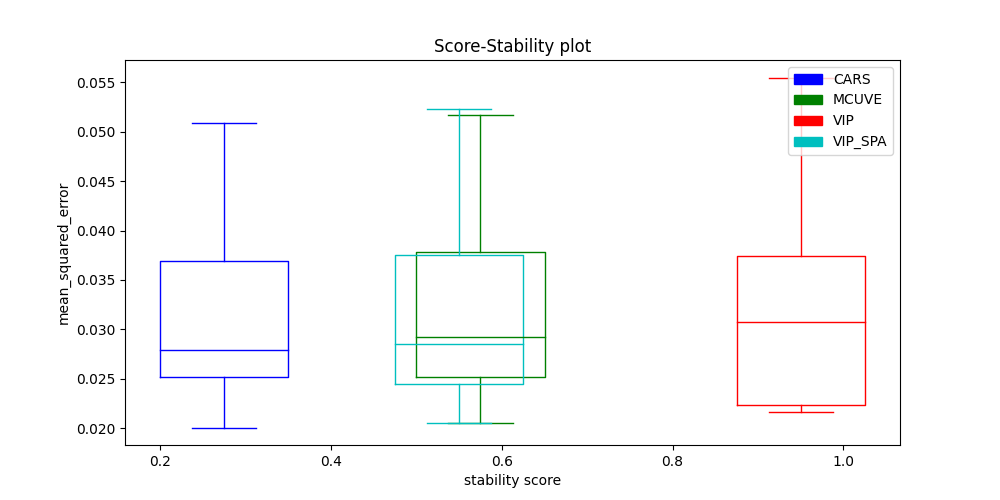
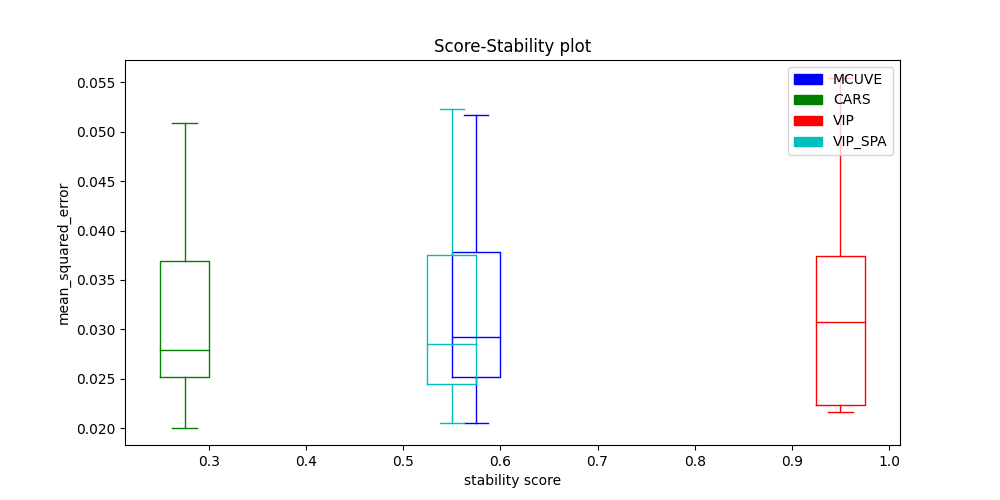
Starts reprogramming of data handling using pandas multiindexing

diff --git a/benchmark/_benchmarking.py b/benchmark/_benchmarking.py
@@ -9,7 +9,7 @@ from sklearn.base import BaseEstimator
 from sklearn import clone
 
 from auswahl import PointSelector, IntervalSelector
-from benchmark.util._data_handling import BenchmarkPOD
+from benchmark.util._data_handling2 import BenchmarkPOD
 from benchmark.util._metrics import mean_std_statistics
 
 
@@ -19,26 +19,33 @@ def benchmark(data_x: np.array,
               train_size: Union[int, float],
               test_model: BaseEstimator,
               reg_metrics: List,
-              stability_metrics: List,
+              stab_metrics: List,
               methods: List[Union[PointSelector, IntervalSelector]],
               random_state: Union[int, RandomState]):
 
-    methods = sorted([(type(method).__name__, method) for method in methods], key=lambda tup: tup[0])
+    methods = [(type(method).__name__, method) for method in (methods if type(methods) == list else [methods])]
     metrics = [(metric.__name__, metric) for metric in (reg_metrics if type(reg_metrics) == list else [reg_metrics])]
+    stabs = [(stab.__name__, stab) for stab in (stab_metrics if type(stab_metrics) == list else [stab_metrics])]
 
     random_state = check_random_state(random_state)
 
     pod = BenchmarkPOD()
-    pod.register_meta(n_samples=data_x.shape[0], n_wavelengths=data_x.shape[1])
+    pod.register_meta(n_samples=data_x.shape[0],
+                      n_wavelengths=data_x.shape[1],
+                      regs=[metric[0] for metric in metrics],
+                      stabs=[stabs[0] for stab in stabs],
+                      methods=dict((methods[i][0], i) for i in range(len(methods))))
 
     # TODO: parallelization with argument n-jobs (produce seeds beforehand to avoid scheduling related reproducilbility issues)
     # parallelization of the outer loop: Due to different methods having different
     # runtimes, a parallelization at this level woud yield with high probability idlying threads
     # => avoids unnecessary synchronization between threads
     for r in range(n_runs):
+        print(f'Started run: {r}')
         seed = random_state.randint(0, 1000000)
         train_x, test_x, train_y, test_y = train_test_split(data_x, data_y, train_size=train_size, random_state=seed)
         for method_name, method in methods:
+            print(f'    Started method {method_name}')
             if hasattr(method, 'random_state'):
                 method.random_state = seed
 
@@ -54,15 +61,15 @@ def benchmark(data_x: np.array,
             prediction = test_regressor.predict(test_x[:, support])
 
             for metric_name, metric in metrics:
-                pod.register(method_name, 'metrics', metric_name, samples=metric(test_y, prediction))
+                pod.register(method_name, metric_name, samples=metric(test_y, prediction))
 
             pod.register(method_name, time=exec_time, support=support)
 
-    # mean and std over all metrics and runs
+    # mean and std over all regression metrics and runs
     mean_std_statistics(pod)
 
     # stability scores
-    for stab_metric in stability_metrics:
-        stab_metric(pod)
+    #for metric_name, metric in stabs:
+        #metric(pod)
 
     return pod

diff --git a/examples/benchmarking.py b/examples/benchmarking.py
@@ -7,11 +7,11 @@
 
 """
 import numpy as np
-from auswahl import MCUVE, CARS, VIP, IPLS, VIP_SPA
+from auswahl import MCUVE, CARS, VIP, IPLS, VIP_SPA, VISSA
 from benchmark import benchmark, stability_score, plot_score_stability_box
 
 from sklearn.cross_decomposition import PLSRegression
-from sklearn.metrics import mean_squared_error
+from sklearn.metrics import mean_squared_error, mean_absolute_error
 
 
 x = np.load("./data/spectra.npy")
@@ -25,15 +25,17 @@ vip_spa = VIP_SPA(n_features_to_select=10, n_jobs=2)
 
 pod = benchmark(x,
                 y,
-                n_runs=5,
+                n_runs=2,
                 train_size=0.9,
                 test_model=PLSRegression(n_components=1),
-                reg_metrics=[mean_squared_error],
-                stability_metrics=[stability_score],
-                methods=[mcuve, cars, vip, vip_spa],
+                reg_metrics=[mean_squared_error, mean_absolute_error],
+                stab_metrics=[stability_score],
+                methods=[mcuve, cars, vip],
                 random_state=1111111)
 
-plot_score_stability_box(pod,
-                         'stability_score',
-                         'mean_squared_error',
-                         save_path="./benchmark_plot.png")
+#pod.to_csv("./samples.csv", ['mean_squared_error', 'samples'])
+pod.to_csv("./all.csv", [['mean_squared_error', 'mean_absolute_error'], ['mean', 'std', 'samples']])
+#plot_score_stability_box(pod,
+                         #'stability_score',
+                         #'mean_squared_error',
+                         #save_path="./benchmark_plot.png")

diff --git a/benchmark/util/_data_handling.py b/benchmark/util/_data_handling.py
@@ -1,3 +1,4 @@
+import pandas as pd
 
 class BenchmarkPOD:
 
@@ -32,5 +33,46 @@ class BenchmarkPOD:
 
     def get_meta_item(self, key: str):
         return self.meta[key]
+
+    def get_reg_metrics(self):
+        return self.meta['regs']
+
+    def get_stability_metrics(self):
+        return self.meta['stabs']
+
+    def _enumerate_values(self, method: str, item_key: str):
+        data = self.data[method][item_key] # reminder: every leave is a list
+        if type(data) == dict:  # shallowness assumed
+            return sum(list(data.values()), [])
+        else:
+            return data
+
+    def _enumerate_keys(self, item_key: str):
+        keys = [item_key]
+        values = self.data[self.get_methods()[0]][item_key]  # use any method
+        if type(values) == dict:  # shallowness assumed
+            keys = sum(list(values.keys()), [])
+            values = list(values.keys())
+        for i in range(values):
+            if len(values[i]) > 1:
+                keys[i] = [i for i in range(1, len(values[i]) + 1)]
+        return keys
+
+    def to_csv(self, item_key):
+
+        """
+            The file will always be produced across all methods
+            and comprise the values of every subitem of the item addressed
+
+        """
+        rows = []
+        index = self.get_methods()
+        columns = self._enumerate_keys()
+        for method in index:
+            self._enumerate(method, item_key)
+
+
+
+
 
 

diff --git a/benchmark/util/pandas_handling.py b/benchmark/util/pandas_handling.py
@@ -1,0 +1,38 @@
+import pandas as pd
+import numpy as np
+from typing import List
+
+
+def build_hierarchical_index(structure: List[List[str]]):
+
+    index = np.array([structure[-1]])
+    for i in range(len(structure) - 2, -1, -1):
+        index = np.concatenate([
+            np.repeat([structure[i]], repeats=index.shape[1], axis=1),
+            np.tile(index, (1, len(structure[i])))
+        ])
+    return index.tolist()
+
+index = build_hierarchical_index([
+    ['CARS', 'VIP'],
+    ['n=1', 'n=2'],
+    ['mse', 'mae'],
+    ['mean', 'std', *[f'sample_{i}' for i in range(2)]]
+])
+
+#print(index.shape)
+#data = np.random.rand(index.shape[1], 1)
+#print(data.shape)
+#frame = pd.DataFrame(data, index=index)
+
+# maintain a regression frame and a feature frame
+# ----> should work...
+
+#--> theoretically, the methods itself can be handled as rows
+
+df = pd.DataFrame(np.random.randn(4, 32), columns=index)
+print(df["VIP", :, 'mse', 'mean'])
+
+# this is simply perfect
+
+

diff --git a/benchmark/util/_metrics.py b/benchmark/util/_metrics.py
@@ -1,5 +1,5 @@
 import numpy as np
-from ._data_handling import BenchmarkPOD
+from ._data_handling2 import BenchmarkPOD
 
 
 def stability_score(pod: BenchmarkPOD):
@@ -118,16 +118,10 @@ def mean_std_statistics(pod: BenchmarkPOD):
             data container produced by benchmarking
 
     """
-    for method in pod.get_methods():
-        for metric in pod.get_item(method, 'metrics').keys():
-            scores = np.array(pod.get_item(method, 'metrics', metric, 'samples'))
-            pod.register(method, 'metrics', metric, mean=scores.mean(), std=scores.std())
-
-
-
-
-
-
-
-
+    for metric in pod.get_reg_metrics():
+        data = np.array(pod.get_item(None, metric, 'samples'))
+        pod.register(None,
+                     metric,
+                     mean=data.mean(axis=1, keepdims=True).tolist(),
+                     std=data.std(axis=1, keepdims=True).tolist())
 

diff --git a/benchmark/util/_statistics.py b/benchmark/util/_statistics.py
@@ -24,13 +24,13 @@ def mw_u_test(pod: BenchmarkPOD, metric_name: str, greater_better=False):
     data = []
     methods = pod.get_methods()
     for method in methods:
-       data.append(np.array(pod.get_item(method, 'metrics', metric_name, 'samples')))
+       data.append(np.array(pod.get_item(method, metric_name, 'samples')))
     data = np.stack(data)
 
     # mask = np.arange(len(methods))
     for i, method in enumerate(methods):
         # _, p = mannwhitneyu(data[i], np.compress(mask != i, data, axis=0))
         _, p = mannwhitneyu(data[i], data, alternative=('greater' if greater_better else 'smaller'), axis=1)
-        pod.register(method, 'metrics', metric_name, mw_u_test=p)
+        pod.register(method, metric_name, mw_u_test=p)
 
 

diff --git a/benchmark/util/_plotting.py b/benchmark/util/_plotting.py
@@ -43,9 +43,9 @@ def plot_score_stability_box(pod: BenchmarkPOD,
         plotting_kwargs = dict()
         for entity in entities:
             plotting_kwargs[entity] = dict(color=colors[i])
-        score = pod.get_item(method, 'metrics', regression_metric, 'samples')
+        score = pod.get_item(method, regression_metric, 'samples')
         stability = pod.get_item(method, stability_metric)
-        ax.boxplot(score, positions=stability, whis=(0, 100), manage_ticks=False, **plotting_kwargs)
+        ax.boxplot(score, positions=stability, whis=(0, 100), widths=0.05, manage_ticks=False, **plotting_kwargs)
         legend_handles.append(mpatches.Patch(color=colors[i], label=method))
 
     ax.set_title("Score-Stability plot")

diff --git a/auswahl/_vissa.py b/auswahl/_vissa.py
@@ -102,7 +102,6 @@ class VISSA(PointSelector):
         # permute the Binary Sampling Matrix
         return np.reshape(bsm[(row_selector, p)], (n_feats, self.n_submodels))
 
-
     def _evaluate(self, X, y, pls, submodel_index):
         with warnings.catch_warnings():
             warnings.simplefilter("ignore")

diff --git a/doc/point_selection.rst b/doc/point_selection.rst
@@ -161,7 +161,9 @@ The algorithm terminates, if either the required number of variables have
 achieved a weight of circa 1, or the variable weights in an iteration produce a deteriorating average Cross Validation score
 of the top submodels compared to the previous iterations.
 
+.. topic:: Examples
 
+    * :ref:`sphx_glr_auto_examples_plot_vissa_two_features.py`: A VISSA example usage for a synthetic regression task
 
 .. topic:: References:
 
